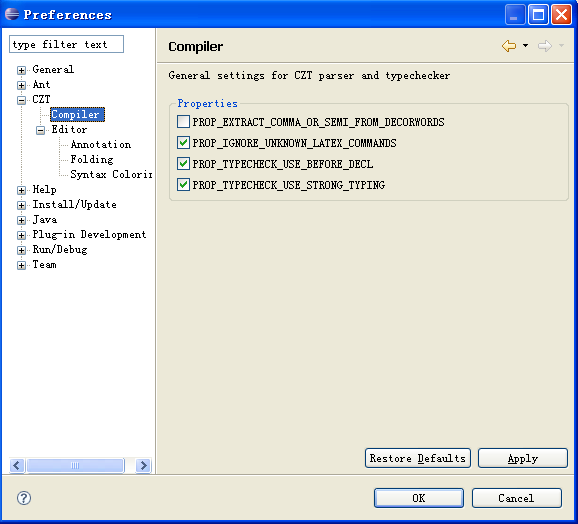
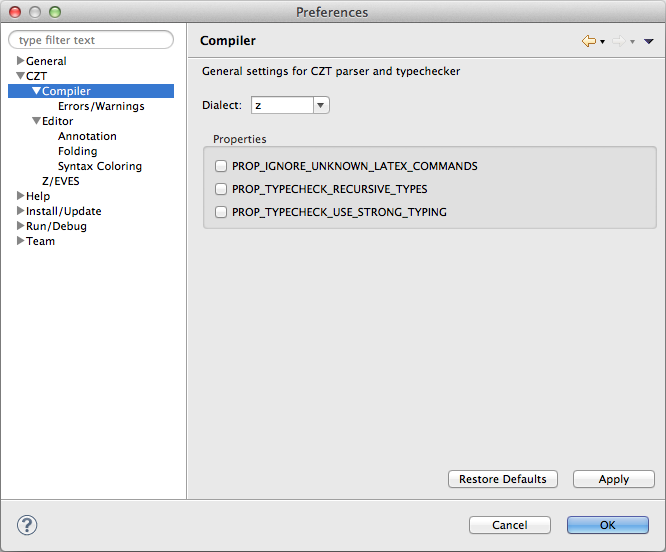
updated compiler preferences info

Changed region(s): [[0.0, 0.0, 1.0, 1.0]]

diff --git a/eclipse/net.sourceforge.czt.eclipse.doc/src/doxia/markdown/reference/preferences/compiler.md b/eclipse/net.sourceforge.czt.eclipse.doc/src/doxia/markdown/reference/preferences/compiler.md
@@ -1,30 +1,31 @@
 # Compiler Preferences
 
-The **CZT > Compiler** preference page allows to configure the various properties of the section manager for parsing and typechecking of Z specifications.
+The **CZT > Compiler** preference page allows configuring the various properties of the section manager for parsing and typechecking of Z specifications.
 
 ![Compiler Preference Page](../../images/pref_compiler.png)
 
+## Dialect
+
+Use the **Dialect** field to select the Z dialect to use within CZT Eclipse. This dialect will be used for all open files.
+
+_Note: reload all open editors after changing the dialect to trigger parsing with the new dialect._
+
+## Other properties
+
 The following properties can be set in this page:
 
-PROP_EXTRACT_COMMA_OR_SEMI_FROM_DECORWORDS
-:   _Default: On_
-:   When set to true, the parser tools extract symbol characters COMMA, SEMICOLON, and FULL STOP
-    from the beginning and end of a WORD token to become WORDs themselves. This is a planned
-    change to the Z Standard; see the Draft Technical Corrigendum 1: Corrections, including to use
-    of Unicode, March 17th, 2006. As of now, this has yet to be submitted for official ballot.
-
 PROP_IGNORE_UNKNOWN_LATEX_COMMANDS
-:   _Default: On_
+:   _Default: Off_
 :   When set to true, the parser tools will ignore unknown LaTeX commands (that is, give a warning
     and use the name of the command) instead of reporting an error. Reporting an error is Standard
     conforming but ignoring those unknown commands is sometimes convenient.
 
 PROP_TYPECHECK_USE_BEFORE_DECL
-:   _Default: On_
+:   _Default: Off_
 :   When this property is true, the typechecker will check that names are declared before they are
     used.
 
 PROP_TYPECHECK_USE_STRONG_TYPING
-:   _Default: On_
+:   _Default: Off_
 :   Note: This property will affect Object-Z only. When this property is true, the typechecker
     will check the specification using strong typing.
